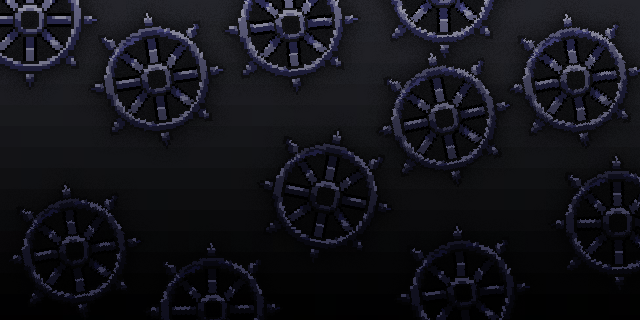
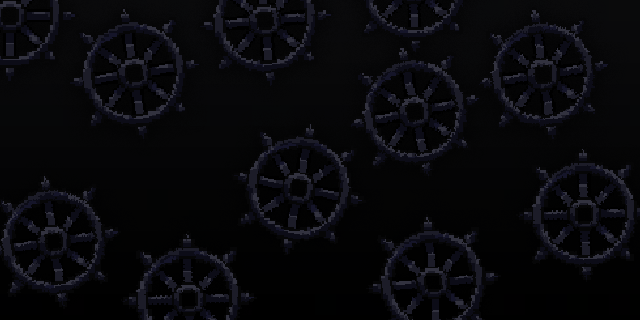
Updated backgrounds.

diff --git a/physics/index.html b/physics/index.html
@@ -84,7 +84,8 @@
     }
 
     canvas#square {
-      background-image: url("lab-bg.png");
+      display: none;
+      background-image: url("lab.png");
       position: absolute;
       background-color: #222;
       top: 50%;
@@ -115,6 +116,10 @@
     var output = document.getElementById("output");
     var $output = $(output);
     var lastEntry;
+
+    $(function() {
+      $(canvas).hide().fadeIn(1000);
+    });
 
     Simulation.setCanvas(canvas.getContext("2d"));
 
